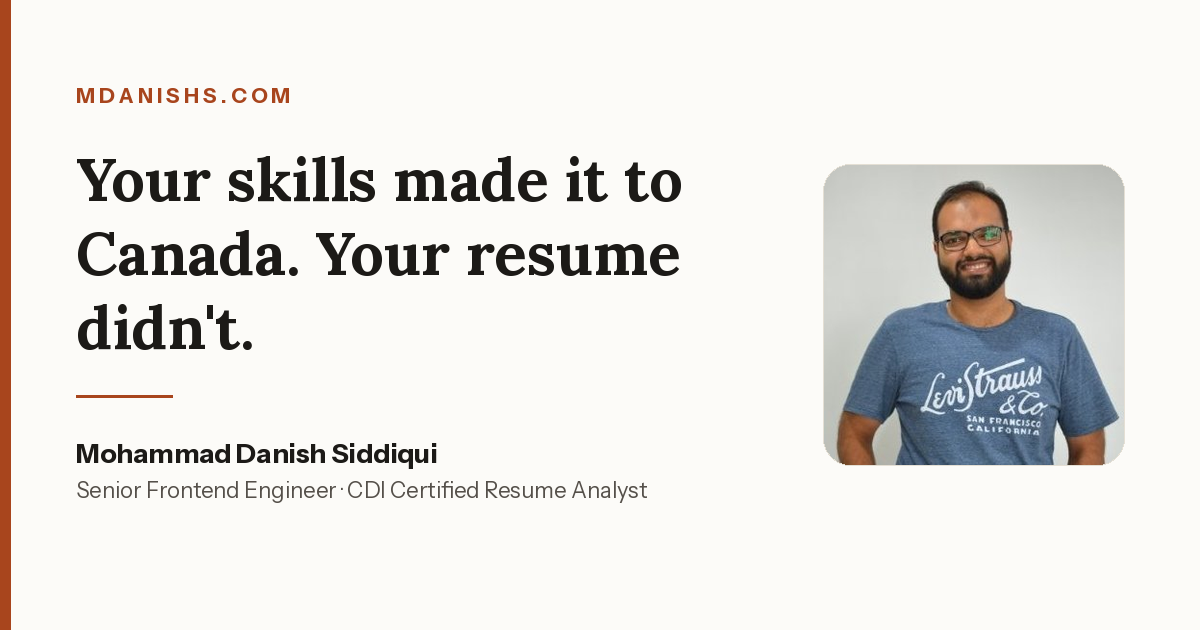
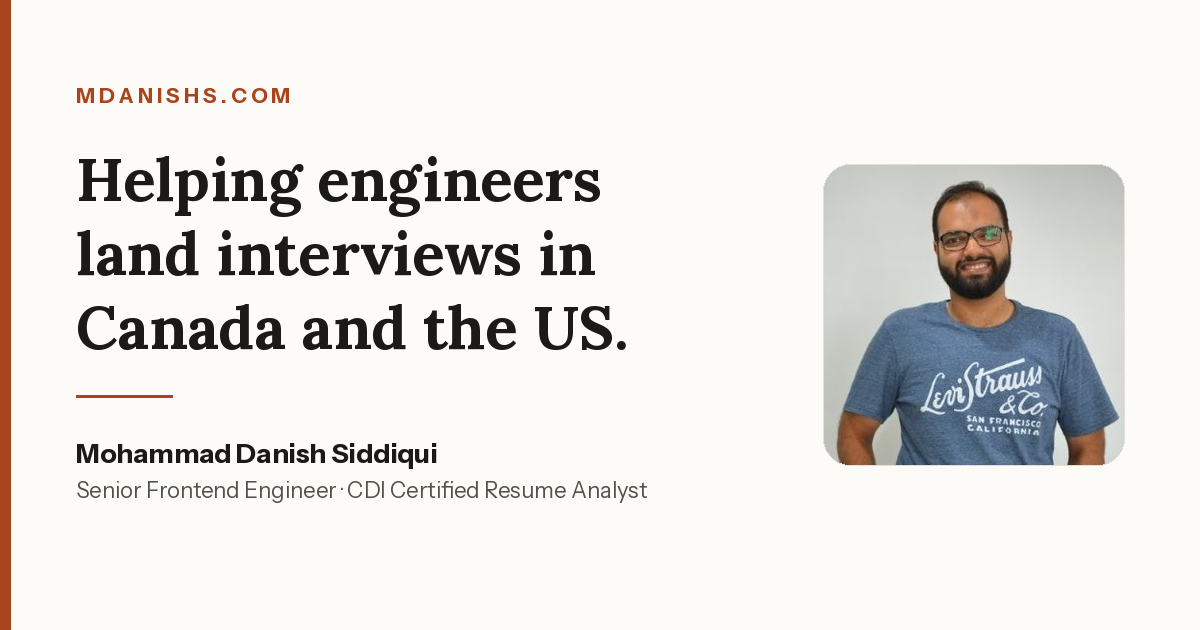
Reposition around the engineer-plus-analyst identity
The first pass made HireDoc the brand and Danish the founder behind it.
Inverts that: the person is the brand — a senior engineer who is also a
certified resume analyst — and HireDoc is a tool he built to run his
review process at scale.

- Homepage H1 leads with the identity rather than the reader's problem,
  and "Why take resume advice from an engineer?" moves up to sit directly
  under the hero, since it is the proof of the positioning claim.
- "Where to start" becomes "Ways I can help"; the HireDoc card is framed
  as a tool he built rather than the destination.
- /resume-help/ gains a "Why an engineer, and not a career coach" section
  and reframes the pricing tiers as ways to work with him.
- Experience lists Intuit above HireDoc so the engineering role reads as
  primary. Person schema worksFor follows.
- Audience wording moves from "already relocated, not people planning to
  move" to "moving to Canada and the US", per the requested framing, while
  still noting that repositioning helps most once someone has landed.
- Regenerate the share card with a headline that matches the new
  positioning, and keep the generator in tools/ so it can be re-run after
  the portrait is replaced.

Claude-Session: https://claude.ai/code/session_018dnYyf2PamoYFuypLVQgWk

Changed region(s): [[0.0617, 0.2413, 0.5858, 0.4524], [0.0617, 0.4825, 0.5242, 0.573]]

diff --git a/index.html b/index.html
@@ -2,7 +2,7 @@
 layout: base
 homepage: true
 title: Mohammad Danish Siddiqui
-description: "Mohammad Danish Siddiqui is a senior frontend engineer and CDI Certified Resume Analyst in Milton, Ontario. He has reviewed 400+ resumes for internationally trained software engineers in Canada and the US, and is the founder of HireDoc."
+description: "Mohammad Danish Siddiqui is a senior frontend engineer with 12+ years of experience and a CDI Certified Resume Analyst in Milton, Ontario. He has reviewed 400+ engineering resumes and helps software engineers moving to Canada and the US land interviews."
 ---
 
 <div class="shell">
@@ -11,12 +11,12 @@ description: "Mohammad Danish Siddiqui is a senior frontend engineer and CDI Cer
     <div class="hero-grid">
       <div>
         <p class="eyebrow">Milton, Ontario &middot; Canada</p>
-        <h1>Your skills made it to Canada. Your resume didn&rsquo;t.</h1>
+        <h1>A senior engineer who&rsquo;s also a certified resume analyst.</h1>
         <p class="lede">
-          I&rsquo;m Danish &mdash; a senior frontend engineer with {{ site.brand.years-experience }}+ years of
-          experience and a CDI Certified Resume Analyst. I help internationally
-          trained software engineers already living in North America turn a
-          stalled job search into interviews.
+          I&rsquo;m Danish. {{ site.brand.years-experience }}+ years building React and React Native products
+          in production &mdash; and a CDI Certified Resume Analyst who has read
+          {{ site.brand.resumes-reviewed }}+ engineering resumes. I help software engineers moving to
+          Canada and the US land interviews.
         </p>
         <div class="btn-row">
           <a class="btn" href="{{ site.brand.quiz-url }}">Score my resume &mdash; free, 3 minutes</a>
@@ -42,9 +42,10 @@ description: "Mohammad Danish Siddiqui is a senior frontend engineer and CDI Cer
       <strong>Mohammad Danish Siddiqui</strong> is a senior frontend engineer
       ({{ site.brand.years-experience }}+ years in React, React Native, and Next.js) and a
       <strong>CDI Certified Resume Analyst</strong> based in Milton, Ontario, Canada.
-      He has reviewed more than {{ site.brand.resumes-reviewed }} engineering resumes and is the founder of
-      <a href="{{ site.brand.product-url }}">HireDoc</a>, an interview-based resume
-      tool for software engineers who moved to Canada or the United States.
+      He has reviewed more than {{ site.brand.resumes-reviewed }} engineering resumes and helps software
+      engineers moving to Canada and the United States land interviews. He also
+      built <a href="{{ site.brand.product-url }}">HireDoc</a>, an interview-based
+      resume tool for engineers making that move.
     </p>
   </div>
 
@@ -68,6 +69,27 @@ description: "Mohammad Danish Siddiqui is a senior frontend engineer and CDI Cer
   </dl>
 
   <section class="prose">
+    <h2>Why take resume advice from an engineer?</h2>
+    <p>
+      Because I&rsquo;m not a career coach who learned tech from the outside. I still
+      write production code. Over {{ site.brand.years-experience }}+ years that has meant AI-driven
+      onboarding experiences contributing to $300M in sales, a cross-platform
+      mobile app serving roughly a million users, and frontend test automation
+      that cut a regression cycle from three days to four hours.
+    </p>
+    <p>
+      The certification came later. I&rsquo;m a CDI Certified Resume Analyst because I
+      wanted the craft of resume writing held to a standard, not just my opinion
+      as a hiring-side engineer. The combination is the whole point: when I read
+      your resume, I know which of your projects was actually hard, and I know
+      how to make a recruiter see it in six seconds.
+    </p>
+    <p>
+      <a href="{{ '/experience' | relative_url }}">See the engineering work &rarr;</a>
+    </p>
+  </section>
+
+  <section class="prose">
     <h2>Why good engineers get ignored here</h2>
     <p>
       &ldquo;Back home, I got interviews in weeks. In Canada, I&rsquo;ve been applying for
@@ -85,10 +107,15 @@ description: "Mohammad Danish Siddiqui is a senior frontend engineer and CDI Cer
       engineer who communicates value clearly.</strong> Most people respond by
       applying more. That&rsquo;s not how this market works.
     </p>
+    <p>
+      I know because I made the move myself. I came to Canada as an experienced
+      engineer and found out the hard way that strong skills don&rsquo;t automatically
+      translate &mdash; nobody warns you on the way in.
+    </p>
   </section>
 
   <section>
-    <h2 class="prose">Where to start</h2>
+    <h2 class="prose">Ways I can help</h2>
     <div class="cards">
       <div class="card">
         <p class="card-meta">Free &middot; 3 minutes</p>
@@ -101,11 +128,11 @@ description: "Mohammad Danish Siddiqui is a senior frontend engineer and CDI Cer
       </div>
       <div class="card">
         <p class="card-meta">From $49</p>
-        <h3>Rewrite it with HireDoc</h3>
+        <h3>Rebuild your resume</h3>
         <p>
-          HireDoc interviews you about your work instead of paraphrasing what&rsquo;s
-          already on the page &mdash; then rebuilds your experience around the
-          impact you left out.
+          I built a tool called HireDoc that runs my review process as an
+          interview &mdash; it asks about your work instead of paraphrasing the
+          page, then rebuilds your experience around the impact you left out.
         </p>
         <p><a href="{{ '/resume-help' | relative_url }}">See how it works &rarr;</a></p>
       </div>
@@ -114,31 +141,11 @@ description: "Mohammad Danish Siddiqui is a senior frontend engineer and CDI Cer
         <h3>Read the playbook</h3>
         <p>
           I write about both lanes: senior engineering craft, and the North
-          American job search for engineers who moved here.
+          American job search for engineers making the move.
         </p>
         <p><a href="{{ '/blogs' | relative_url }}">Read the writing &rarr;</a></p>
       </div>
     </div>
-  </section>
-
-  <section class="prose">
-    <h2>Why take resume advice from an engineer?</h2>
-    <p>
-      Because I&rsquo;m not a career coach who learned tech from the outside. I&rsquo;ve spent
-      {{ site.brand.years-experience }}+ years writing production code &mdash; AI-driven onboarding
-      experiences that contributed to $300M in sales, a cross-platform mobile app
-      serving roughly a million users, and frontend test automation that cut a
-      regression cycle from three days to four hours.
-    </p>
-    <p>
-      I also lived this. I moved to Canada as an experienced engineer and learned
-      the hard way that strong skills don&rsquo;t automatically translate. So when I
-      read your resume, I know which of your projects was actually hard, and I
-      know how to make a recruiter see it in six seconds.
-    </p>
-    <p>
-      <a href="{{ '/experience' | relative_url }}">See the engineering work &rarr;</a>
-    </p>
   </section>
 
   <div class="band">

diff --git a/resume-help.html b/resume-help.html
@@ -2,8 +2,8 @@
 layout: base
 permalink: /resume-help/
 title: Resume help for internationally trained engineers
-seo-title: "Resume Help for Internationally Trained Software Engineers in Canada & the US"
-description: "Stalled job search in Canada or the US? A CDI Certified Resume Analyst and senior engineer with 400+ reviews explains why strong engineers get filtered out, and how to fix the positioning."
+seo-title: "Resume Help for Software Engineers Moving to Canada & the US"
+description: "A senior software engineer and CDI Certified Resume Analyst with 400+ reviews explains why strong engineers get filtered out of North American hiring, and how to fix the positioning."
 faq: true
 offers: true
 ---
@@ -14,8 +14,9 @@ offers: true
     <p class="eyebrow">Resume help</p>
     <h1>You&rsquo;re not underqualified. You&rsquo;re underrepresented.</h1>
     <p class="lede">
-      For internationally trained software engineers who are already in Canada or
-      the United States, have real senior-level skills, and cannot get a callback.
+      I&rsquo;m a senior software engineer and a CDI Certified Resume Analyst. I help
+      engineers moving to Canada and the United States land interviews &mdash;
+      by fixing how their experience reads, not by telling them to apply more.
     </p>
   </div>
 
@@ -35,20 +36,37 @@ offers: true
   <section class="prose">
     <h2>Who this is for</h2>
     <p>
-      One person, specifically: <strong>the internationally trained engineer who
-      is already here and stuck.</strong>
+      <strong>Internationally trained software engineers making the move to
+      Canada or the United States.</strong>
     </p>
     <p>
-      You moved. You have real, senior-level skills. And you are watching those
-      skills get discounted &mdash; &ldquo;Canadian experience&rdquo; gatekeeping, credentials
-      that don&rsquo;t translate, a professional network you have to rebuild from
-      zero, and applicant tracking system rejections despite being genuinely good
-      at the work.
+      You have real, senior-level skills. And you are watching those skills get
+      discounted &mdash; &ldquo;Canadian experience&rdquo; gatekeeping, credentials that
+      don&rsquo;t translate, a professional network you have to rebuild from zero, and
+      applicant tracking system rejections despite being genuinely good at the
+      work.
     </p>
     <p>
-      If that&rsquo;s you, everything below was written for you. If you haven&rsquo;t
-      relocated yet, this isn&rsquo;t the right resource &mdash; the advice for landing a
-      job from abroad is a different problem with a different answer.
+      The people I help most are the ones who have already landed and stalled:
+      months of applications, no callbacks, no idea what&rsquo;s wrong. That&rsquo;s the
+      case where repositioning changes things fastest.
+    </p>
+  </section>
+
+  <section class="prose">
+    <h2>Why an engineer, and not a career coach</h2>
+    <p>
+      I do this from the inside. I&rsquo;m a senior frontend engineer with
+      {{ site.brand.years-experience }}+ years shipping production software &mdash; React, React Native,
+      Next.js &mdash; and I&rsquo;ve sat on the hiring side of the table. I know which
+      of your projects was genuinely hard, and which line on your resume a
+      reviewer will skip.
+    </p>
+    <p>
+      The credential came after: I&rsquo;m a <strong>CDI Certified Resume Analyst</strong>,
+      accredited by Career Directors International, so the resume craft is held
+      to a professional standard rather than being one engineer&rsquo;s taste. Then
+      {{ site.brand.resumes-reviewed }}+ reviews taught me which gaps show up over and over.
     </p>
   </section>
 
@@ -111,7 +129,7 @@ offers: true
   </section>
 
   <section class="prose" id="hiredoc">
-    <h2>HireDoc: the tool I built for this</h2>
+    <h2>Ways to work with me</h2>
     <p>
       After {{ site.brand.resumes-reviewed }}+ manual reviews, the same bottleneck kept showing up. The
       information that would make someone hireable was never on the page &mdash; it
@@ -119,9 +137,11 @@ offers: true
       you already wrote.
     </p>
     <p>
-      So <a href="{{ site.brand.product-url }}">HireDoc</a> interviews you instead. It
-      asks about your work the way I would in a review, pulls out the impact you
-      forgot to mention, and rebuilds your experience around it.
+      So I built <a href="{{ site.brand.product-url }}">HireDoc</a> to run my review
+      process as an interview. It asks about your work the way I would, pulls out
+      the impact you forgot to mention, and rebuilds your experience around it
+      &mdash; at a price that works whether or not you want me personally in the
+      loop.
     </p>
   </section>
 

diff --git a/about.html b/about.html
@@ -3,7 +3,7 @@ layout: base
 permalink: /about/
 title: About Mohammad Danish Siddiqui
 seo-title: "About Mohammad Danish Siddiqui — Senior Frontend Engineer & Resume Analyst"
-description: "Mohammad Danish Siddiqui is a senior frontend engineer with 12+ years of experience and a CDI Certified Resume Analyst in Milton, Ontario. He founded HireDoc after reviewing 400+ resumes for engineers who moved to North America."
+description: "Mohammad Danish Siddiqui is a senior frontend engineer with 12+ years of experience who is also a CDI Certified Resume Analyst. Based in Milton, Ontario, he helps engineers moving to Canada and the US land interviews."
 profile-page: true
 ---
 
@@ -18,12 +18,12 @@ profile-page: true
     <div class="answer-label">In short</div>
     <p>
       <strong>Mohammad Danish Siddiqui</strong> is a senior frontend engineer with
-      {{ site.brand.years-experience }}+ years of experience and a
-      <strong>CDI Certified Resume Analyst</strong> living in Milton, Ontario,
+      {{ site.brand.years-experience }}+ years of experience who is also a
+      <strong>CDI Certified Resume Analyst</strong>, living in Milton, Ontario,
       Canada. He specializes in React, React Native, Next.js, and Node.js, and has
-      reviewed more than {{ site.brand.resumes-reviewed }} resumes for internationally trained software
-      engineers running a stalled job search in North America. He is the founder of
-      <a href="{{ site.brand.product-url }}">HireDoc</a>.
+      reviewed more than {{ site.brand.resumes-reviewed }} engineering resumes. He helps software engineers
+      moving to Canada and the United States land interviews, and built
+      <a href="{{ site.brand.product-url }}">HireDoc</a> to do it at scale.
     </p>
   </div>
 

diff --git a/tools/make-images.py b/tools/make-images.py
@@ -1,0 +1,114 @@
+"""Generate the OG share card and favicon for mdanishs.com."""
+
+from PIL import Image, ImageDraw, ImageFont
+
+F = "/mnt/skills/examples/canvas-design/canvas-fonts"
+SERIF_B = f"{F}/Lora-Bold.ttf"
+SANS = f"{F}/InstrumentSans-Regular.ttf"
+SANS_B = f"{F}/InstrumentSans-Bold.ttf"
+
+PAPER = (252, 251, 248)
+INK = (28, 26, 23)
+INK_SOFT = (85, 80, 74)
+ACCENT = (168, 69, 29)
+RULE = (228, 223, 212)
+
+OUT = "/home/user/mdanishs.github.io/img"
+
+
+def wrap(draw, text, font, max_w):
+    words, lines, cur = text.split(), [], ""
+    for w in words:
+        trial = f"{cur} {w}".strip()
+        if draw.textlength(trial, font=font) <= max_w:
+            cur = trial
+        else:
+            if cur:
+                lines.append(cur)
+            cur = w
+    if cur:
+        lines.append(cur)
+    return lines
+
+
+def rounded_portrait(path, size, radius):
+    src = Image.open(path).convert("RGB")
+    # center-crop to square, then resize
+    w, h = src.size
+    s = min(w, h)
+    src = src.crop(((w - s) // 2, (h - s) // 2, (w + s) // 2, (h + s) // 2))
+    src = src.resize((size, size), Image.LANCZOS)
+    mask = Image.new("L", (size, size), 0)
+    ImageDraw.Draw(mask).rounded_rectangle([0, 0, size - 1, size - 1], radius, fill=255)
+    src.putalpha(mask)
+    return src
+
+
+def og_card():
+    W, H = 1200, 630
+    img = Image.new("RGB", (W, H), PAPER)
+    d = ImageDraw.Draw(img)
+
+    # accent spine
+    d.rectangle([0, 0, 10, H], fill=ACCENT)
+
+    pad_l, pad_t = 76, 82
+    col_w = 640
+
+    eyebrow = ImageFont.truetype(SANS_B, 21)
+    head = ImageFont.truetype(SERIF_B, 60)
+    name_f = ImageFont.truetype(SANS_B, 27)
+    role_f = ImageFont.truetype(SANS, 22)
+
+    y = pad_t
+    d.text((pad_l, y), "M D A N I S H S . C O M", font=eyebrow, fill=ACCENT)
+    y += 58
+
+    for line in wrap(d, "Helping engineers land interviews in Canada and the US.", head, col_w):
+        d.text((pad_l, y), line, font=head, fill=INK)
+        y += 74
+
+    y += 34
+    d.line([(pad_l, y), (pad_l + 96, y)], fill=ACCENT, width=3)
+    y += 40
+
+    d.text((pad_l, y), "Mohammad Danish Siddiqui", font=name_f, fill=INK)
+    y += 40
+    for line in wrap(
+        d,
+        "Senior Frontend Engineer  ·  CDI Certified Resume Analyst",
+        role_f,
+        col_w,
+    ):
+        d.text((pad_l, y), line, font=role_f, fill=INK_SOFT)
+        y += 32
+
+    # portrait
+    p = 300
+    px, py = W - p - 76, (H - p) // 2
+    portrait = rounded_portrait(f"{OUT}/danish.jpg", p, 26)
+    d.rounded_rectangle([px - 1, py - 1, px + p, py + p], 27, outline=RULE, width=2)
+    img.paste(portrait, (px, py), portrait)
+
+    img.save(f"{OUT}/og-card.png", optimize=True)
+    print("wrote og-card.png", img.size)
+
+
+def favicon():
+    S = 512
+    img = Image.new("RGB", (S, S), ACCENT)
+    d = ImageDraw.Draw(img)
+    f = ImageFont.truetype(SERIF_B, 330)
+    box = d.textbbox((0, 0), "D", font=f)
+    d.text(
+        ((S - (box[2] - box[0])) / 2 - box[0], (S - (box[3] - box[1])) / 2 - box[1]),
+        "D",
+        font=f,
+        fill=PAPER,
+    )
+    img.save(f"{OUT}/favicon.png", optimize=True)
+    print("wrote favicon.png", img.size)
+
+
+og_card()
+favicon()

diff --git a/README.md b/README.md
@@ -62,6 +62,17 @@ Then open <http://localhost:4000>.
 | `img/og-card.png` | 1200×630 social share card |
 | `img/favicon.png` | Favicon |
 
+`og-card.png` and `favicon.png` are generated. After replacing `img/danish.jpg`
+(or changing the card headline), regenerate them:
+
+```sh
+pip install Pillow
+python3 tools/make-images.py
+```
+
+The script center-crops whatever it finds at `img/danish.jpg`, so the portrait
+does not need to be square.
+
 ---
 
 Originally built on [Beautiful Jekyll](https://beautifuljekyll.com) by Dean
